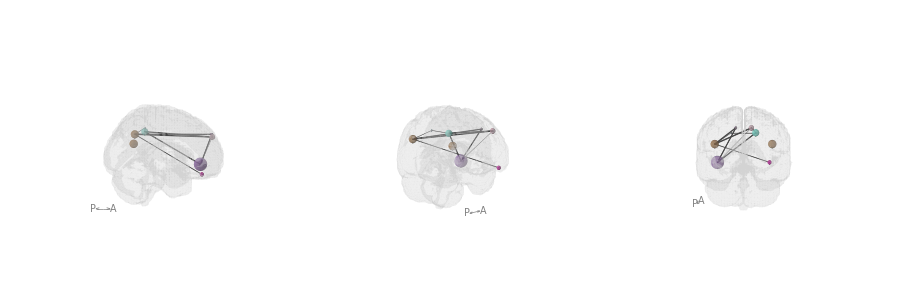
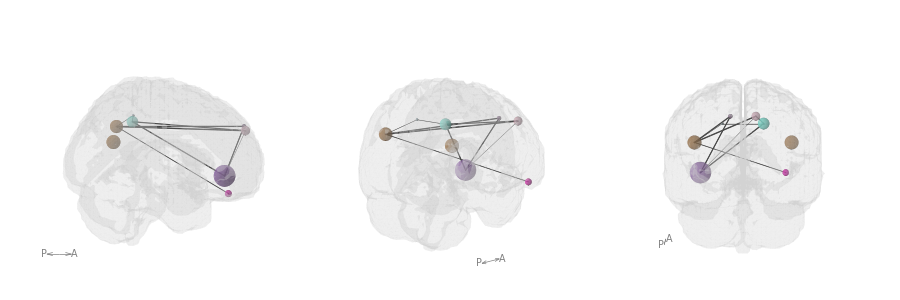
Fixing size of figures

diff --git a/netonbrain/plotting/plot_utils.py b/netonbrain/plotting/plot_utils.py
@@ -9,6 +9,9 @@ def _set_axes_equal(ax: plt.Axes):
     Make axes of 3D plot have equal scale so that spheres appear as
     spheres and cubes as cubes.  Required since `ax.axis('equal')`
     and `ax.set_aspect('equal')` don't work on 3D.
+
+    # Credit for code: 
+    https://stackoverflow.com/questions/13685386/matplotlib-equal-unit-length-with-equal-aspect-ratio-z-axis-is-not-equal-to/63625222#63625222
     """
     limits = np.array([
         ax.get_xlim3d(),
@@ -16,7 +19,11 @@ def _set_axes_equal(ax: plt.Axes):
         ax.get_zlim3d(),
     ])
     origin = np.mean(limits, axis=1)
-    radius = 0.5 * np.max(np.abs(limits[:, 1] - limits[:, 0]))
+    # IMPORTANT, this scaling factor (0.3) might needed to be changed
+    # Orginally it was 0.5, and should be checked that all templates
+    # Fit this. A template specific scaling factor is possible, if problems
+    # arise.
+    radius = 0.3 * np.max(np.abs(limits[:, 1] - limits[:, 0]))
     _set_axes_radius(ax, origin, radius)
 
 def _set_axes_radius(ax, origin, radius):
